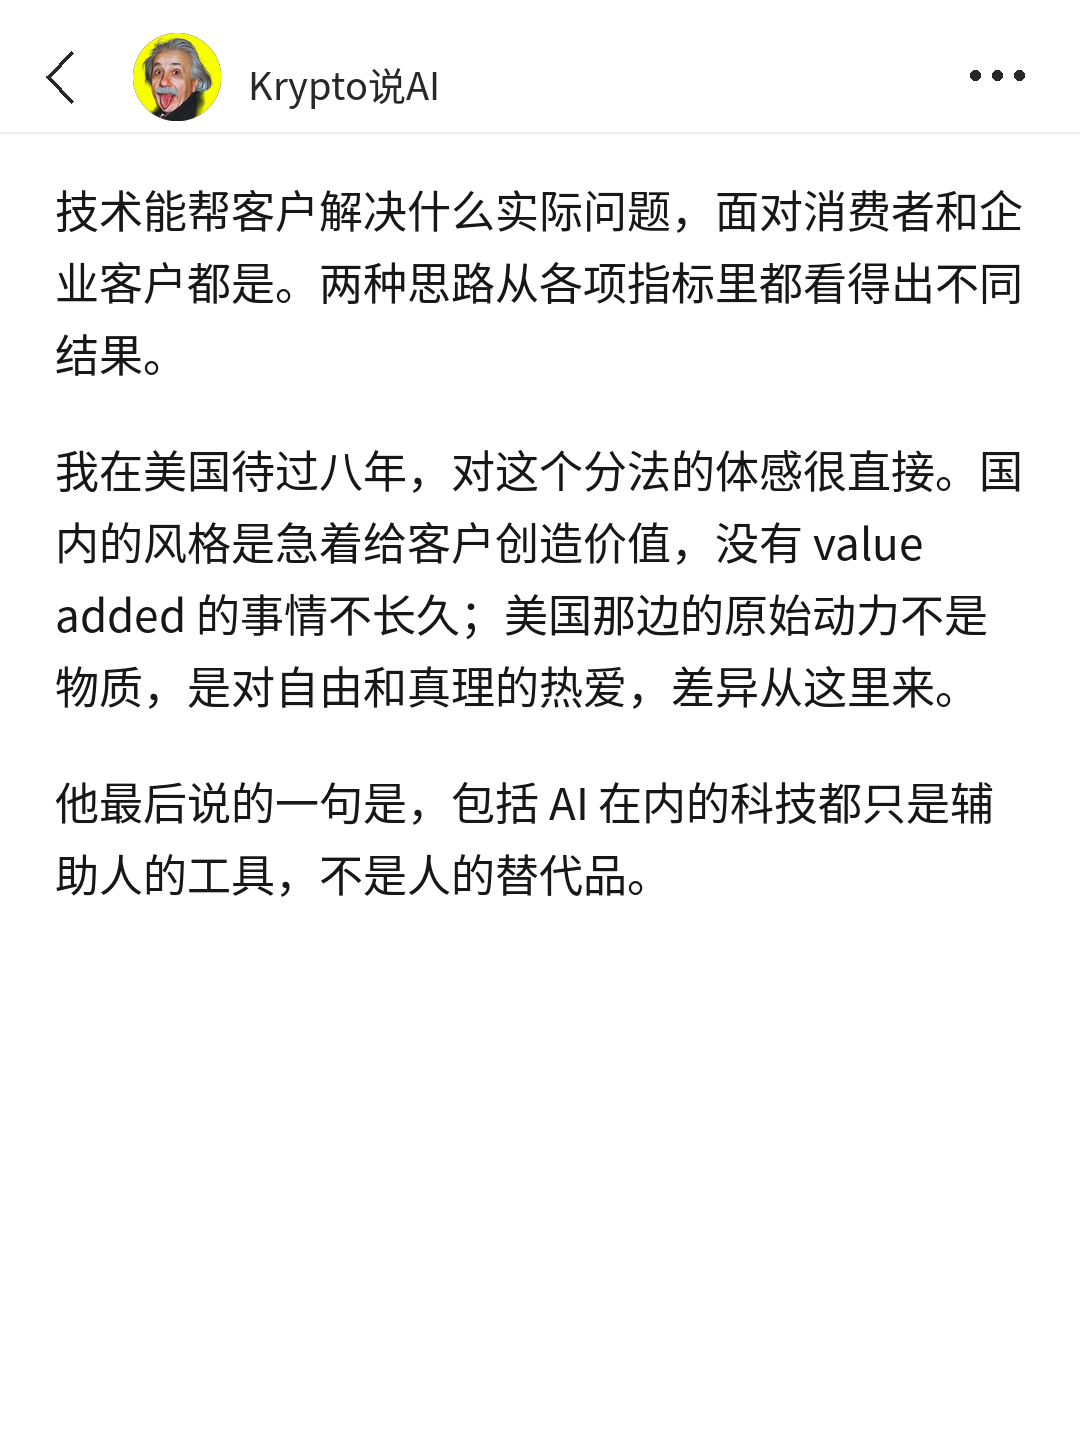
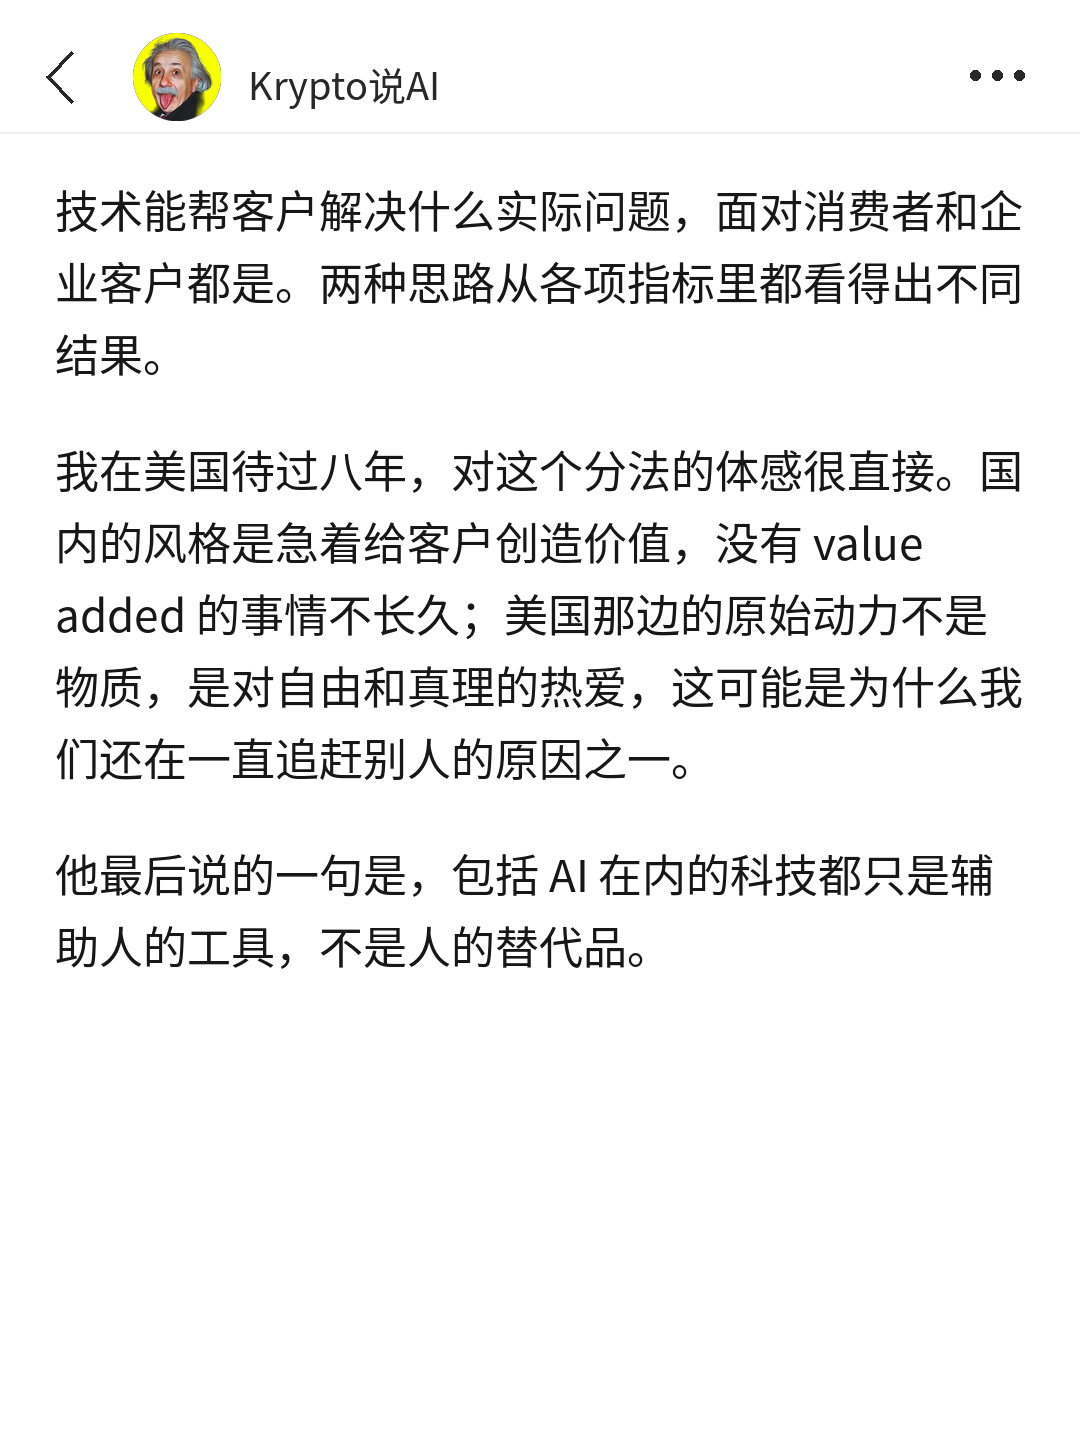
李录稿：结尾中美差异一句改成「可能是我们还在追赶别人的原因之一」（用户 10-07）
Claude-Session: https://claude.ai/code/session_015PCFAaTRLY2GD1Se7DV5ug

Changed region(s): [[0.0306, 0.5, 0.9167, 0.6875], [0.6111, 0.4375, 0.9472, 0.5]]

diff --git a/发布/2026-10-08_lilu-ai-tool-not-species/meme版/编辑用/draft.md b/发布/2026-10-08_lilu-ai-tool-not-species/meme版/编辑用/draft.md
@@ -56,6 +56,6 @@ account: Krypto说AI
 
 后面有人问中国的 AI，他说硅谷发展 AI 的核心问题只有一个，这项技术还能做到哪些不可能的事，所以他们自称实验室，叫这个「前沿」。中国的 AI 企业对底层问题同样好奇，但更关心的是这项技术能帮客户解决什么实际问题，面对消费者和企业客户都是。两种思路从各项指标里都看得出不同结果。
 
-我在美国待过八年，对这个分法的体感很直接。国内的风格是急着给客户创造价值，没有 value added 的事情不长久；美国那边的原始动力不是物质，是对自由和真理的热爱，差异从这里来。
+我在美国待过八年，对这个分法的体感很直接。国内的风格是急着给客户创造价值，没有 value added 的事情不长久；美国那边的原始动力不是物质，是对自由和真理的热爱，这可能是为什么我们还在一直追赶别人的原因之一。
 
 他最后说的一句是，包括 AI 在内的科技都只是辅助人的工具，不是人的替代品。
